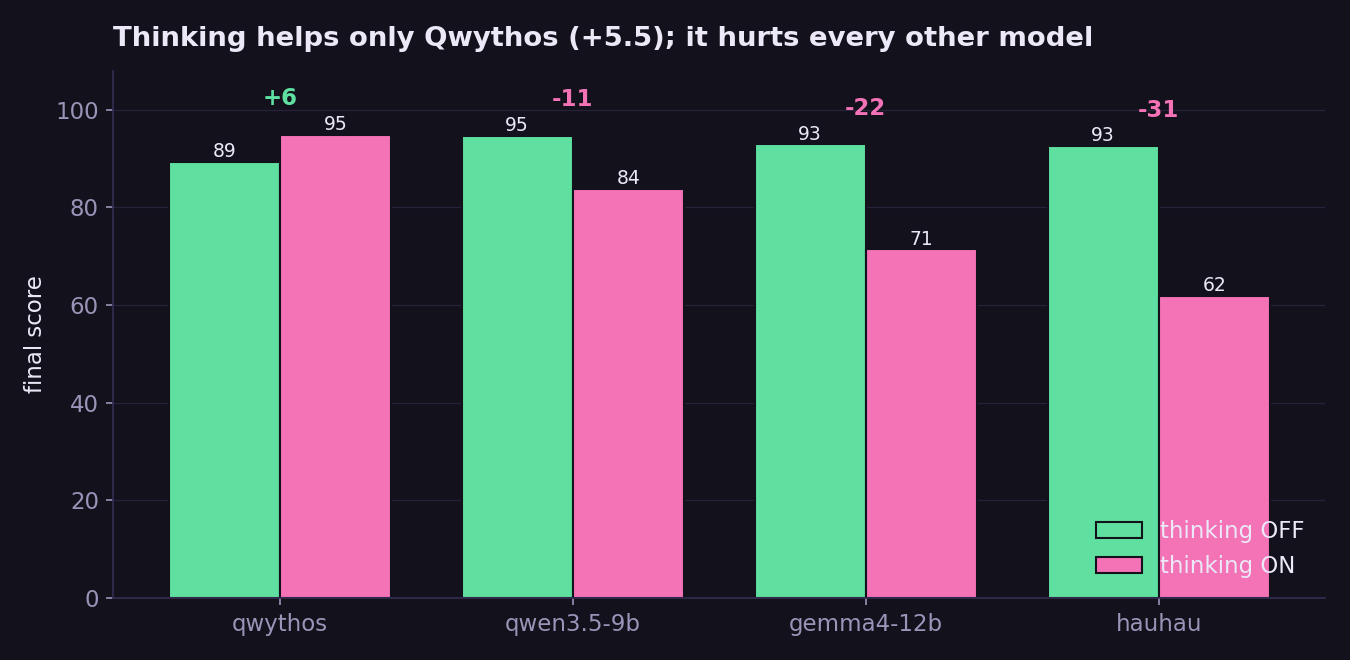
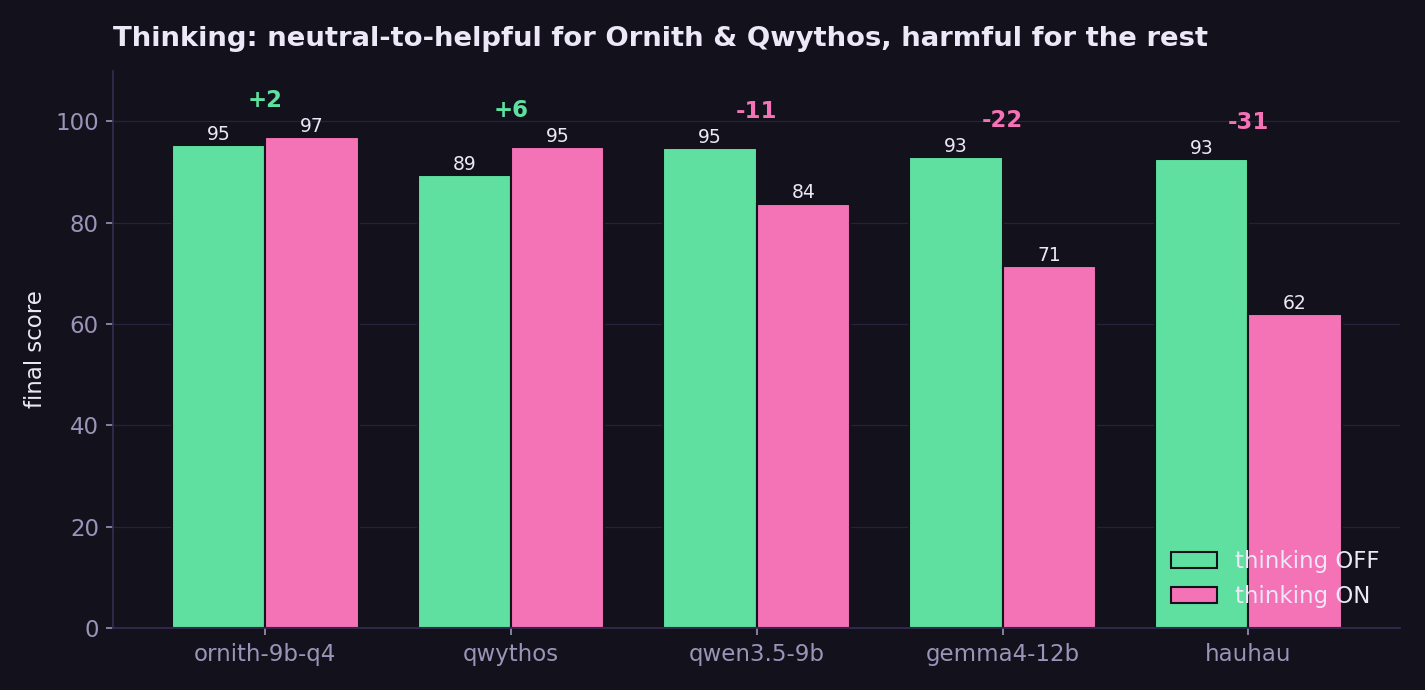
Benchmark Ornith-1.0-9B (new champion) and gemma4-v2; refresh charts + verdict
- Ornith-1.0-9B (Q4_K_M) is the new overall #1: basic 96.9, advanced 97.5,
  hardcore 94.3 (a benchmark record), fast and token-efficient; thinking doesn't
  hurt it. Q4 > Q3 (esp. hardcore 86.7 -> 94.3).
- gemma4-v2 ("agentic-fable5" finetune) rejected: collapses on hardcore
  (40.6 / 30% correct vs base 79.0), slow and verbose.
- Regenerate the three README charts with the full 14-run field; update the
  benchmark verdict.
- combine_report.py: include the new aliases when rebuilding the basic report.

diff --git a/bench/make_charts.py b/bench/make_charts.py
@@ -1,14 +1,13 @@
 """Render the benchmark leaderboard charts used in the README.
 
 Numbers come from bench/results/*/report*.md (104-task basic tier + advanced /
-circuit / hardcore tiers). Regenerate with:  python bench/make_charts.py
+hardcore tiers). Regenerate with:  python bench/make_charts.py
 Outputs PNGs into ../assets/.
 """
 import os
 import matplotlib
 matplotlib.use("Agg")
 import matplotlib.pyplot as plt
-from matplotlib import font_manager  # noqa: F401
 
 HERE = os.path.dirname(os.path.abspath(__file__))
 OUT = os.path.join(os.path.dirname(HERE), "assets")
@@ -17,7 +16,7 @@ os.makedirs(OUT, exist_ok=True)
 # palette (matches the TUI / backoffice)
 INK, PANEL, GRID = "#13111c", "#1b1830", "#352d52"
 TEXT, MUTED = "#ece8f7", "#9b93b8"
-GOLD, GREEN, PINK, BLUE, PURPLE = "#e7b94e", "#5fe0a0", "#f472b6", "#46c2f5", "#b394ff"
+GOLD, GREEN, PINK, BLUE, PURPLE, RED = "#e7b94e", "#5fe0a0", "#f472b6", "#46c2f5", "#b394ff", "#ff6b6b"
 
 plt.rcParams.update({
     "figure.facecolor": INK, "axes.facecolor": INK, "savefig.facecolor": INK,
@@ -26,50 +25,60 @@ plt.rcParams.update({
 })
 
 
-def _style(ax):
-    for s in ("top", "right"):
-        ax.spines[s].set_visible(False)
-    ax.grid(axis="x", color=GRID, linewidth=0.6, alpha=0.6)
-    ax.set_axisbelow(True)
+def family_color(name):
+    if name.startswith("ornith"):
+        return GOLD
+    if name.startswith("gemma4-v2"):
+        return RED
+    if name.startswith("qwen35"):
+        return GREEN
+    if name.startswith("gemma4-12b"):
+        return BLUE
+    if name.startswith("qwythos"):
+        return PURPLE
+    return MUTED
 
 
-# ---- 1) overall leaderboard (basic tier, 104 tasks) ----
+# ---- 1) overall leaderboard (basic tier, 104 tasks) — all runs ----
 runs = [
-    ("qwythos · think", 94.9, GOLD),
-    ("qwen3.5-9b · nothink", 94.7, GREEN),
-    ("gemma4-12b · nothink", 92.9, BLUE),
-    ("hauhau · nothink", 92.6, PURPLE),
-    ("qwythos · nothink", 89.4, MUTED),
-    ("qwen3.5-9b · think", 83.8, MUTED),
-    ("gemma4-12b · think", 71.4, MUTED),
-    ("hauhau · think", 61.9, MUTED),
+    ("ornith-9b-q4 · think", 96.9), ("ornith-9b · think", 96.6),
+    ("ornith-9b-q4 · nothink", 95.4), ("ornith-9b · nothink", 95.1),
+    ("qwythos · think", 94.9), ("qwen3.5-9b · nothink", 94.7),
+    ("gemma4-12b · nothink", 92.9), ("hauhau · nothink", 92.6),
+    ("qwythos · nothink", 89.4), ("qwen3.5-9b · think", 83.8),
+    ("gemma4-12b · think", 71.4), ("gemma4-v2 · think", 71.2),
+    ("hauhau · think", 61.9), ("gemma4-v2 · nothink", 55.6),
 ]
 runs = runs[::-1]
-fig, ax = plt.subplots(figsize=(9, 4.6))
 labels = [r[0] for r in runs]
 vals = [r[1] for r in runs]
-cols = [r[2] for r in runs]
-bars = ax.barh(labels, vals, color=cols, height=0.66, edgecolor=INK)
+cols = [family_color(n.split(" ")[0]) for n in labels]
+fig, ax = plt.subplots(figsize=(9.5, 6.4))
+bars = ax.barh(labels, vals, color=cols, height=0.7, edgecolor=INK)
 for b, v in zip(bars, vals):
     ax.text(v - 1.5, b.get_y() + b.get_height() / 2, f"{v:.1f}", va="center", ha="right",
-            color=INK, fontweight="bold", fontsize=10)
+            color=INK, fontweight="bold", fontsize=9)
 ax.set_xlim(0, 100)
 ax.set_title("Overall leaderboard — basic tier (104 read-only tool tasks)",
              color=TEXT, fontweight="bold", loc="left", pad=12)
 ax.set_xlabel("final score  (70% correctness · 20% tool-selection · 10% efficiency − penalties)",
               color=MUTED, fontsize=9)
-_style(ax)
+for s in ("top", "right"):
+    ax.spines[s].set_visible(False)
+ax.grid(axis="x", color=GRID, linewidth=0.6, alpha=0.6)
+ax.set_axisbelow(True)
+ax.text(1.5, len(labels) - 1, "★ new", color=GOLD, fontsize=10, fontweight="bold", va="center")
 fig.tight_layout()
 fig.savefig(os.path.join(OUT, "leaderboard.png"), dpi=150)
 plt.close(fig)
 
-# ---- 2) thinking ON vs OFF per model ----
-models = ["qwythos", "qwen3.5-9b", "gemma4-12b", "hauhau"]
-nothink = [89.4, 94.7, 92.9, 92.6]
-think = [94.9, 83.8, 71.4, 61.9]
+# ---- 2) thinking ON vs OFF per model (basic) ----
+models = ["ornith-9b-q4", "qwythos", "qwen3.5-9b", "gemma4-12b", "hauhau"]
+nothink = [95.4, 89.4, 94.7, 92.9, 92.6]
+think = [96.9, 94.9, 83.8, 71.4, 61.9]
 x = range(len(models))
 w = 0.38
-fig, ax = plt.subplots(figsize=(9, 4.4))
+fig, ax = plt.subplots(figsize=(9.5, 4.6))
 b1 = ax.bar([i - w / 2 for i in x], nothink, w, label="thinking OFF", color=GREEN, edgecolor=INK)
 b2 = ax.bar([i + w / 2 for i in x], think, w, label="thinking ON", color=PINK, edgecolor=INK)
 for bars in (b1, b2):
@@ -79,12 +88,12 @@ for bars in (b1, b2):
 for i, (n, t) in enumerate(zip(nothink, think)):
     d = t - n
     ax.annotate(f"{d:+.0f}", (i, max(n, t) + 6), ha="center",
-                color=GREEN if d > 0 else PINK, fontweight="bold", fontsize=11)
+                color=GREEN if d >= 0 else PINK, fontweight="bold", fontsize=11)
 ax.set_xticks(list(x))
 ax.set_xticklabels(models)
-ax.set_ylim(0, 108)
+ax.set_ylim(0, 110)
 ax.set_ylabel("final score")
-ax.set_title("Thinking helps only Qwythos (+5.5); it hurts every other model",
+ax.set_title("Thinking: neutral-to-helpful for Ornith & Qwythos, harmful for the rest",
              color=TEXT, fontweight="bold", loc="left", pad=12)
 ax.legend(frameon=False, loc="lower right", labelcolor=TEXT)
 for s in ("top", "right"):
@@ -95,27 +104,27 @@ fig.tight_layout()
 fig.savefig(os.path.join(OUT, "thinking_impact.png"), dpi=150)
 plt.close(fig)
 
-# ---- 3) top-3 finalists across all four tiers ----
-tiers = ["basic\n(104)", "advanced\n(24)", "circuit\n(3)", "hardcore\n(20)"]
+# ---- 3) new champion vs old champion vs base, across tiers (best mode/tier) ----
+tiers = ["basic\n(104)", "advanced\n(24)", "hardcore\n(20)"]
 data = {
-    "qwen3.5-9b · nothink": ([94.7, 98.1, 98.7, 82.0], GREEN),
-    "gemma4-12b · nothink": ([92.9, 97.5, 98.7, 79.0], BLUE),
-    "qwythos · think":      ([94.9, 95.9, 98.7, 71.6], GOLD),
+    "ornith-9b-q4 (new #1)":  ([96.9, 97.5, 94.3], GOLD),
+    "qwen3.5-9b · nothink":   ([94.7, 98.1, 82.0], GREEN),
+    "gemma4-12b · nothink":   ([92.9, 97.5, 79.0], BLUE),
 }
 x = range(len(tiers))
 w = 0.26
-fig, ax = plt.subplots(figsize=(9, 4.4))
+fig, ax = plt.subplots(figsize=(9.5, 4.6))
 for k, (name, (vals, col)) in enumerate(data.items()):
     off = (k - 1) * w
     bars = ax.bar([i + off for i in x], vals, w, label=name, color=col, edgecolor=INK)
     for b in bars:
         ax.text(b.get_x() + b.get_width() / 2, b.get_height() + 1, f"{b.get_height():.0f}",
-                ha="center", color=TEXT, fontsize=8)
+                ha="center", color=TEXT, fontsize=9)
 ax.set_xticks(list(x))
 ax.set_xticklabels(tiers)
-ax.set_ylim(0, 110)
-ax.set_ylabel("final score")
-ax.set_title("Top-3 finalists across all four tiers (they flake under real pressure)",
+ax.set_ylim(0, 112)
+ax.set_ylabel("best-mode final score")
+ax.set_title("Ornith-1.0-9B (Q4) is the new overall #1 — and runs away with hardcore",
              color=TEXT, fontweight="bold", loc="left", pad=12)
 ax.legend(frameon=False, loc="lower left", labelcolor=TEXT, ncol=3, fontsize=9)
 for s in ("top", "right"):

diff --git a/bench/combine_report.py b/bench/combine_report.py
@@ -12,7 +12,7 @@ import os
 from run_bench import write_report, print_leaderboard, RESULTS_DIR
 
 TARGET_TASKS = 104
-KNOWN_ALIASES = ("qwythos", "hauhau", "qwen35-9b", "gemma4-12b")
+KNOWN_ALIASES = ("qwythos", "hauhau", "qwen35-9b", "gemma4-12b", "gemma4-v2", "ornith-9b")
 
 
 def main():

diff --git a/README.md b/README.md
@@ -148,22 +148,29 @@ and any model is one line in `bench/models.json`.
 
 ### The key finding: thinking is not free
 
-Enabling the model's own "thinking" only helps the Mythos merge; it **hurts** every other
-model — sometimes badly.
+Enabling the model's own "thinking" is **neutral-to-helpful for Ornith and the Mythos
+merge, but hurts every other model** — sometimes badly (Gemma loses ~21 pts, the Hauhau
+merge ~31).
 
 ![Thinking impact](assets/thinking_impact.png)
 
-### The 3 finalists, stress-tested across all tiers
+### Champion vs. the field, across tiers
 
-They ace the easy tiers and **flake under real pressure** (multi-step incidents, secret
-hunting, multi-file edits).
+The interesting tier is **hardcore** (real multi-step dev/sysadmin incidents) — that's
+where most models flake. Ornith doesn't.
 
 ![Across tiers](assets/tiers.png)
 
-> **Verdict:** **`qwen3.5-9b` with thinking OFF** is the best all-rounder — it ties on the
-> basic tier, wins advanced/circuit/hardcore, and is faster and cheaper than the rest.
-> `gemma4-12b` (nothink) is a close second. The Mythos merge (`qwythos`) only keeps up
-> *with* thinking, and fades first under load.
+> **Verdict:** **`Ornith-1.0-9B` (Q4_K_M) is the new overall #1.** A 9B model that tops the
+> basic tier (96.9), stays top-tier on advanced (97.5), and **runs away with hardcore
+> (94.3 — the best score the benchmark has ever recorded**, vs the prior best of 82.0), all
+> while being fast and token-efficient. Uniquely, thinking doesn't hurt it. `qwen3.5-9b`
+> (nothink) and `gemma4-12b` (nothink) are the next best all-rounders.
+>
+> Two finetunes tested and **rejected**: `gemma4-v2` ("agentic-fable5" tune) regressed hard
+> — it collapses on the hardcore tier (40.6 / 30% correct vs base Gemma's 79.0) and is slow
+> and hyper-verbose. The `Q3_K_M` of Ornith also scores a touch below the `Q4_K_M` (esp. on
+> hardcore: 86.7 → 94.3), so use the Q4 if it fits your VRAM.
 
 Regenerate the charts after a new run:
 
